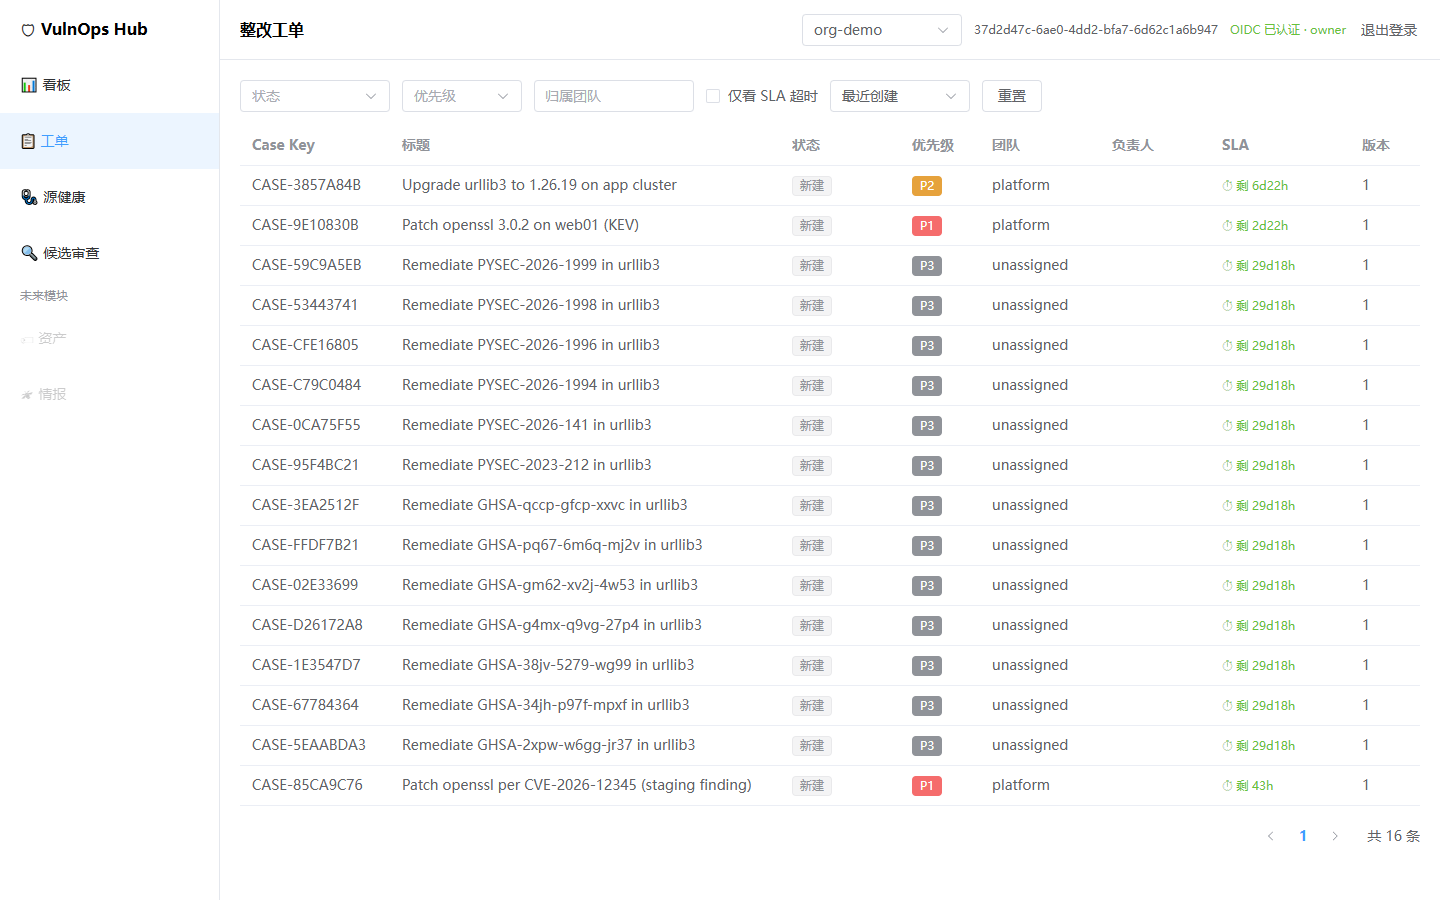
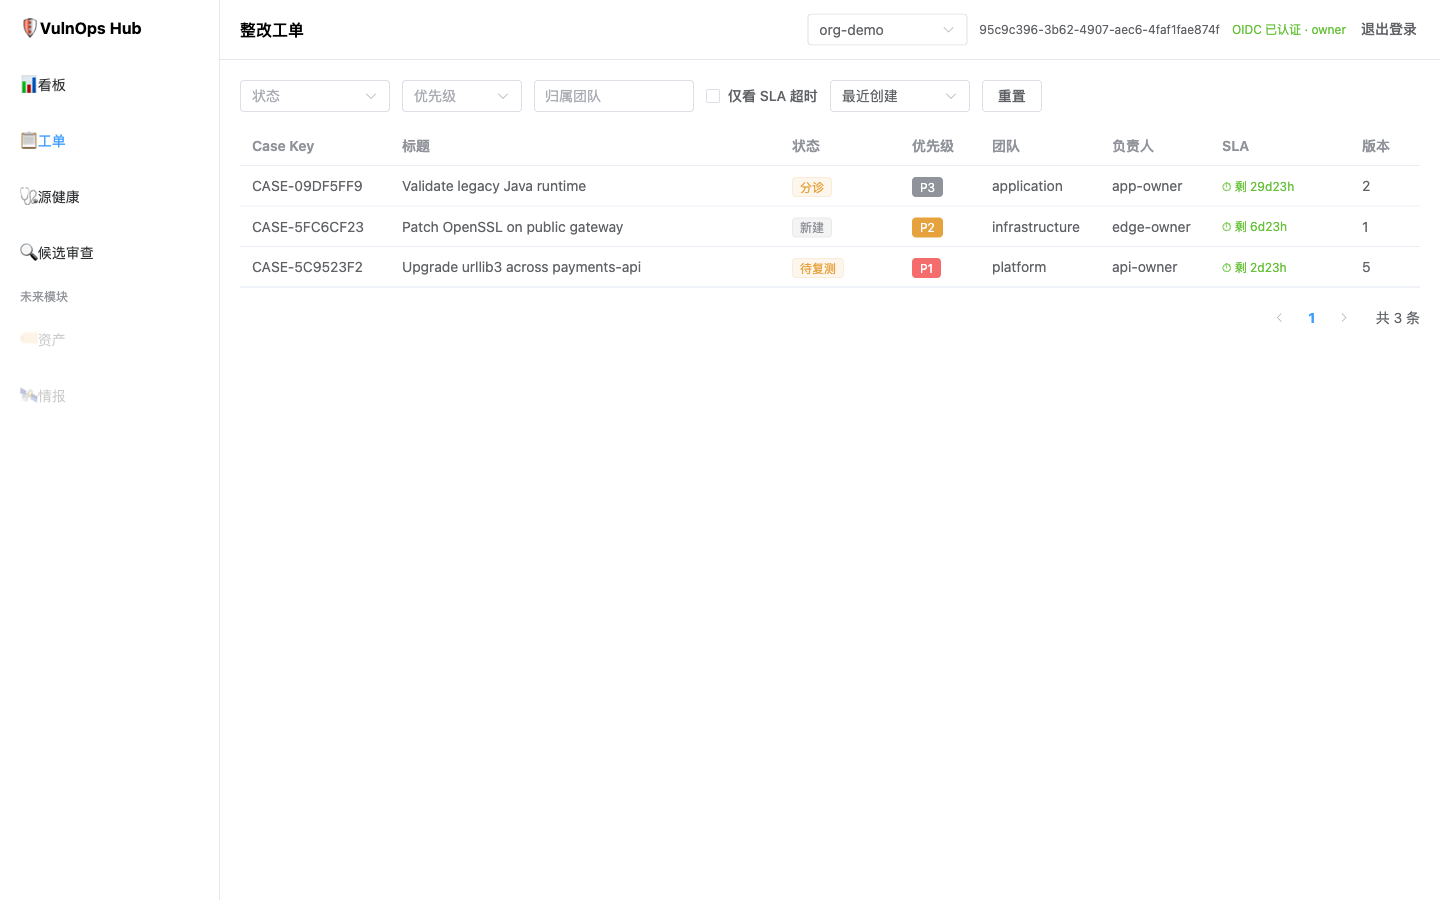
docs: refresh README workflow screenshots

diff --git a/README.md b/README.md
@@ -24,19 +24,25 @@ MVP 退出条件。运行方式见下文 Quick start。
 
 ## Console screenshots
 
-Captured from the Vue 3 operations console against the local staging stack
-(see `docs/operations/integrated-staging.md`); OIDC login goes through the
-sandbox Keycloak realm. The demo data includes auto-created remediation
-cases produced by the orchestration worker from a real OSV query.
+Captured from the Vue 3 operations console against a local staging dataset
+(see `docs/operations/integrated-staging.md`). Login uses the sandbox Keycloak
+realm; the screens then follow the operational path from source health and
+candidate review to a case, a time-bounded risk decision, and verification.
+The actions shown in drawers are intentionally unsubmitted screenshots, so
+they document the required evidence without changing a remediation state.
 
 | | |
 | --- | --- |
-| ![Dashboard](docs/screenshots/dashboard.png) | ![Case list](docs/screenshots/cases.png) |
-| *Dashboard — open cases, SLA and priority distribution* | *Case list — deterministic matches auto-create cases with SLA clocks* |
-| ![Case detail](docs/screenshots/case-detail.png) | ![Source health](docs/screenshots/source-health.png) |
-| *Case detail — lifecycle stepper, metadata, exposures* | *Source health — polling cursor and freshness per source* |
-| ![Candidate review](docs/screenshots/candidate-review.png) | ![SBOM submit](docs/screenshots/sbom-submit.png) |
-| *Candidate review — ambiguous matches wait for an audited decision* | *SBOM submit — CycloneDX/SPDX ingestion entry point* |
+| ![Login](docs/screenshots/login.png) | ![Dashboard](docs/screenshots/dashboard.png) |
+| *1. Login — OIDC redirects to the organization identity provider* | *2. Dashboard — open work, SLA and priority distribution* |
+| ![Source health](docs/screenshots/source-health.png) | ![Candidate review](docs/screenshots/candidate-review.png) |
+| *3. Source health — cursor, freshness and upstream degradation signals* | *4. Candidate queue — lower-confidence matches wait for a human decision* |
+| ![Candidate decision](docs/screenshots/candidate-decision.png) | ![Case list](docs/screenshots/cases.png) |
+| *5. Candidate decision — a required reason becomes part of the audit trail* | *6. Case list — priority, owner, SLA and current lifecycle state* |
+| ![Case detail](docs/screenshots/case-detail.png) | ![Risk decision](docs/screenshots/risk-decision.png) |
+| *7. Case detail — lifecycle stepper, evidence tabs and metadata* | *8. Risk acceptance — evidence and expiry are mandatory* |
+| ![Verification](docs/screenshots/verification.png) | ![SBOM submit](docs/screenshots/sbom-submit.png) |
+| *9. Verification — partial, failed or stale evidence cannot close a case* | *10. SBOM submit — CycloneDX/SPDX ingestion entry point* |
 
 ## Quick start
 
